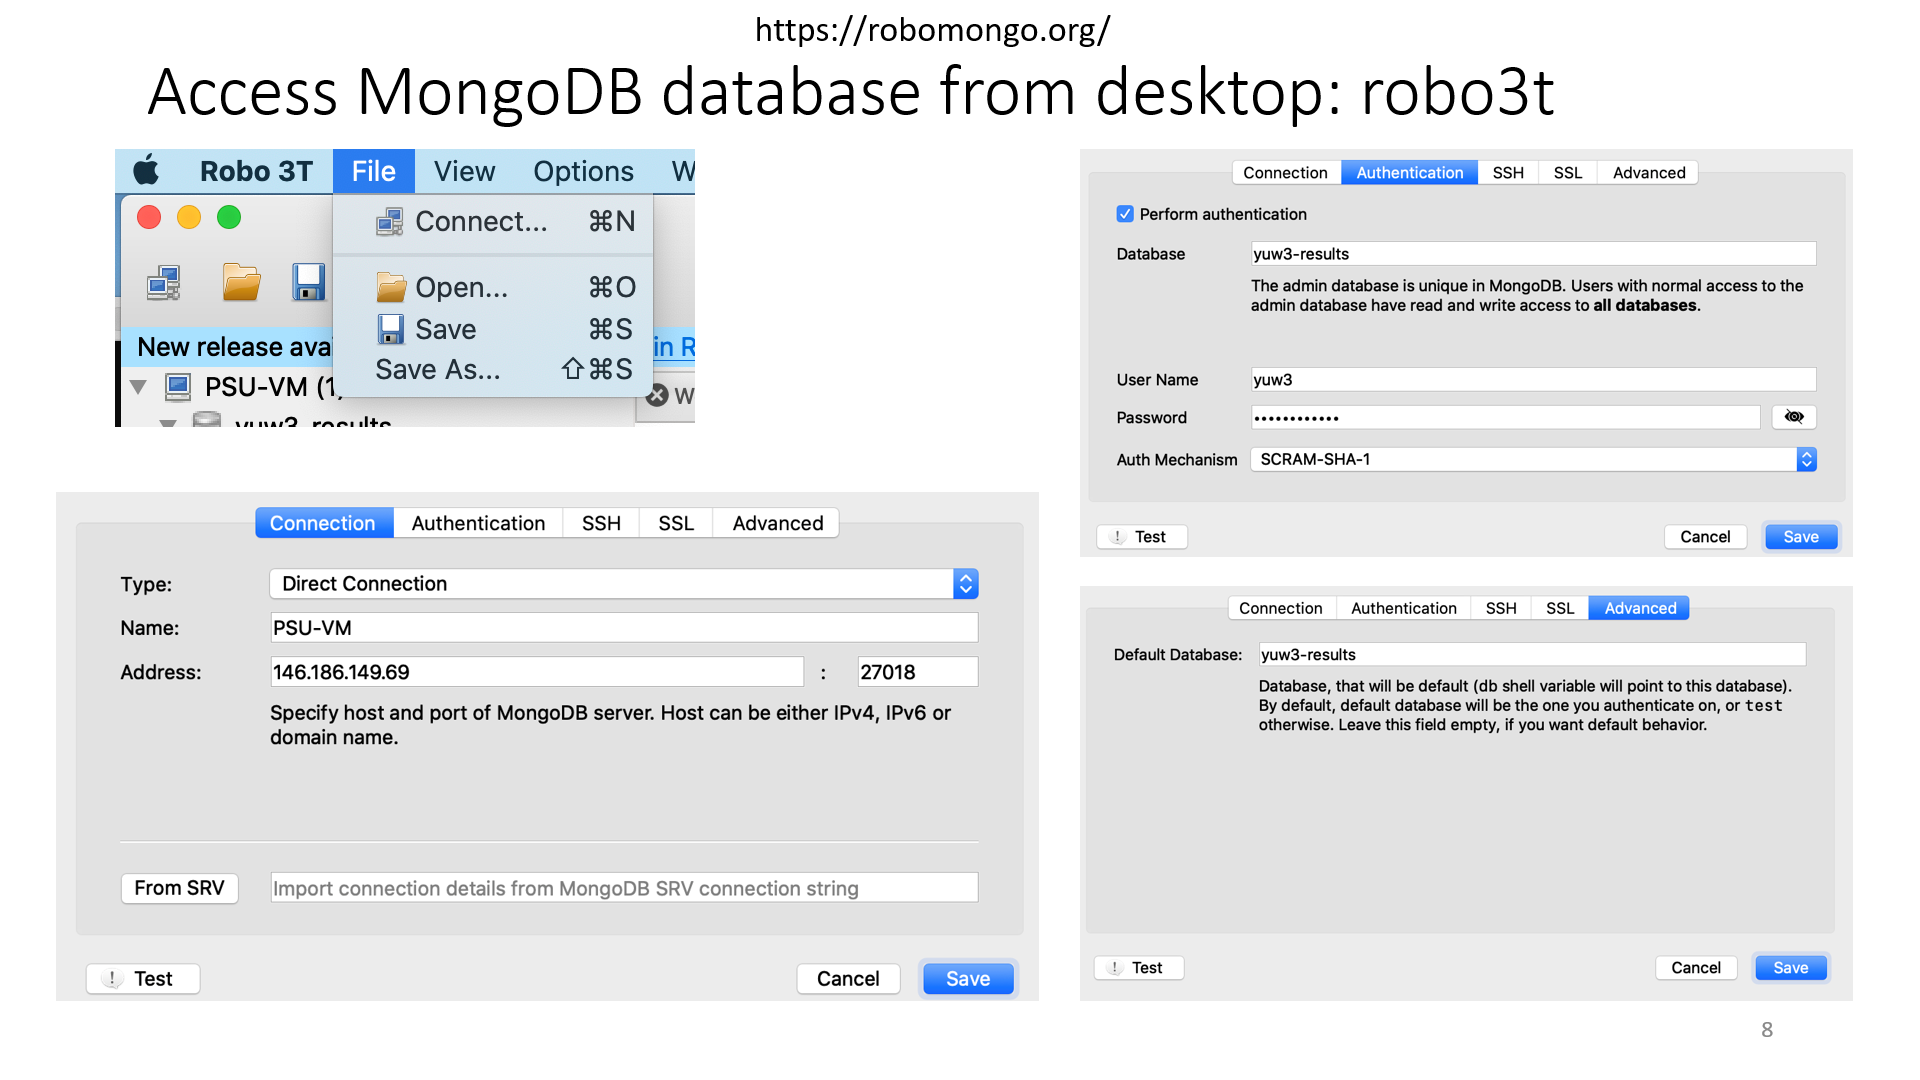
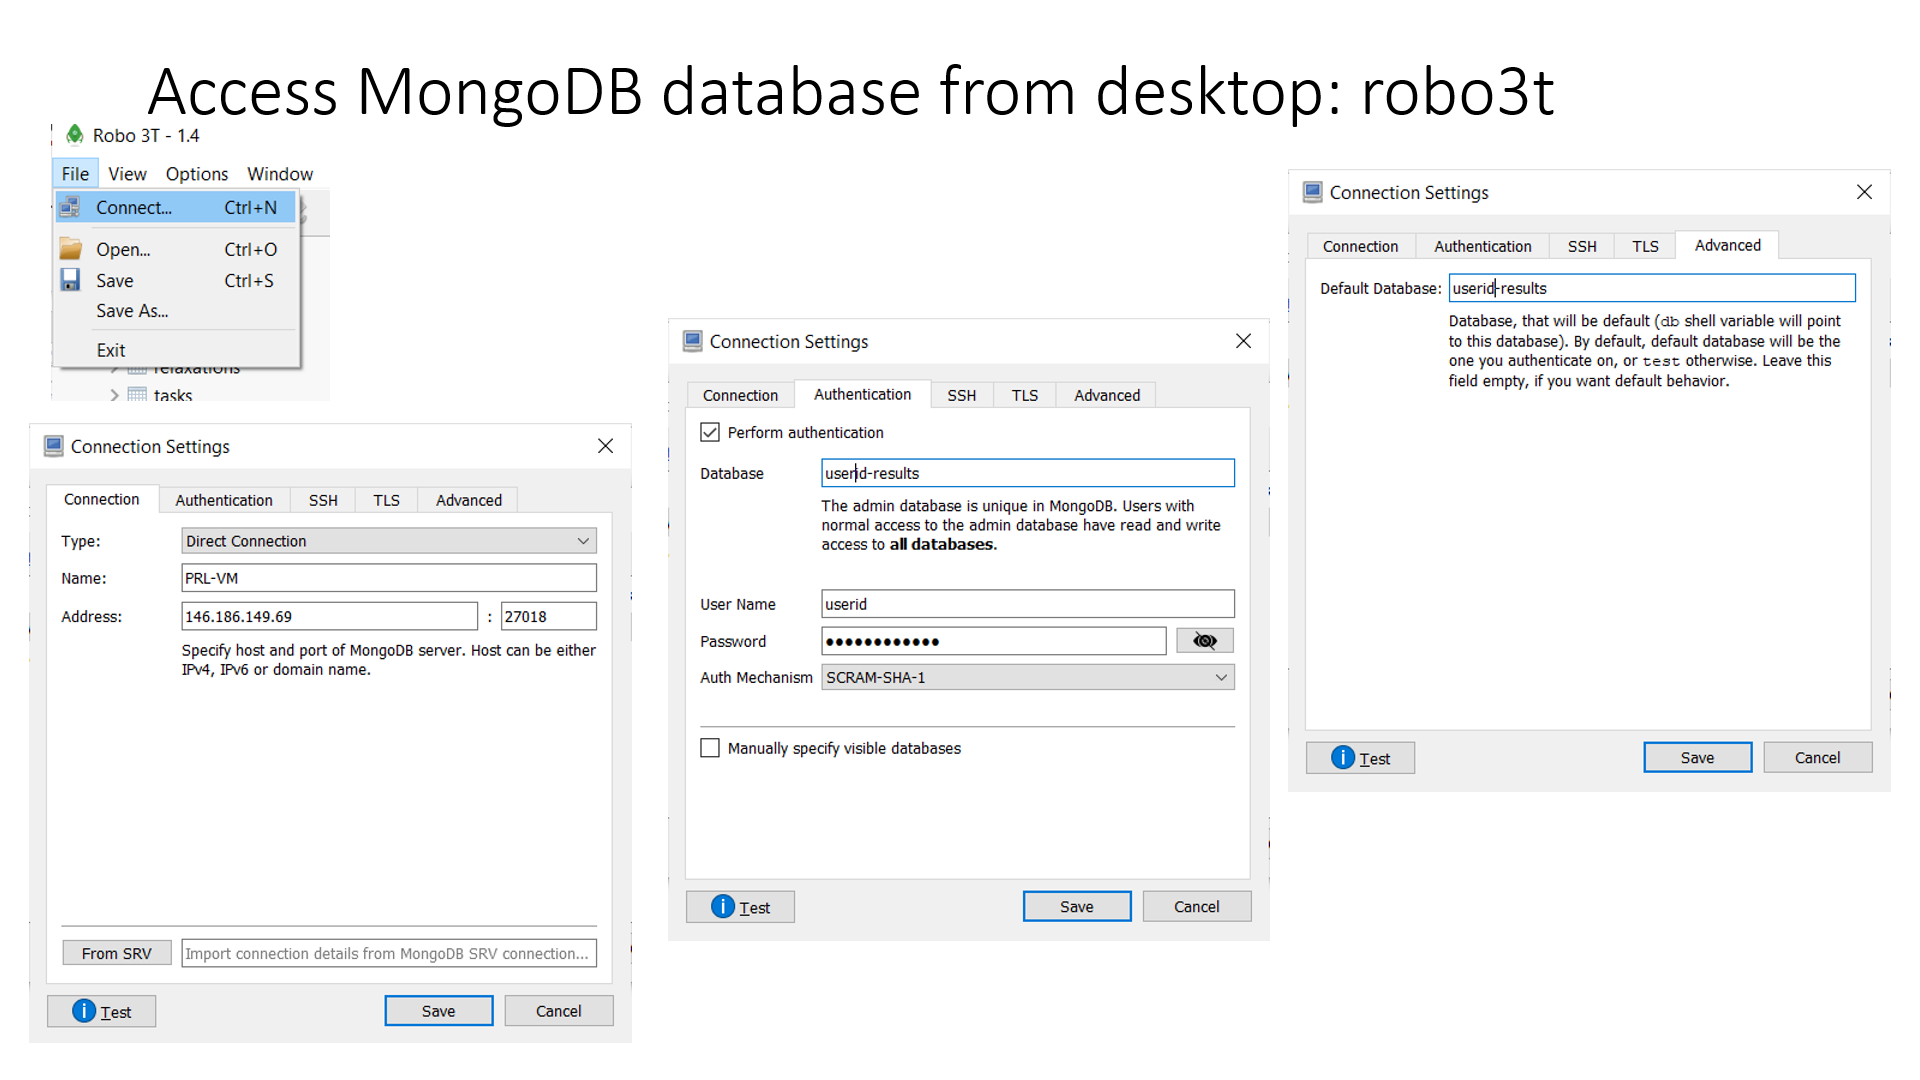
update

diff --git a/docs/source/VM_MongoDB.rst b/docs/source/VM_MongoDB.rst
@@ -10,7 +10,7 @@ In our case, we have changed the default tcp port from 27017 into 27018 due to h
 VM operation
 ------------
 
-  Connect your VM by ssh (ssh yourpsuid@146.186.149.69 in our case). One should use VPN if you have firewall for your system
+  Connect your VM by ssh (ssh youruserid@146.186.149.69 in our case). One should use VPN if you have firewall for your system
 
 - To add user to your VM linux system
 
@@ -91,11 +91,11 @@ For more details on MongodB user management, see https://docs.mongodb.com/manual
 
 .. code-block:: python
 
-    use psuid-fws
-    db.createUser({user: "psuid", pwd: "B5nRcUvoCZ92", roles: [{role: "dbOwner", db: "psuid-fws"}]})
-    use psuid-results
-    db.createUser({user: "psuid", pwd: "BeFihJ2mrKGm", roles: [{role: "dbOwner", db: "psuid-results"}]})
-    db.createUser({user: "psuid-ro", pwd: "QIvaUT9ca6H8", roles: [{role: "read", db: "psuid-results"}]})
+    use userid-fws
+    db.createUser({user: "userid", pwd: "B5nRcUvoCZ92", roles: [{role: "dbOwner", db: "userid-fws"}]})
+    use userid-results
+    db.createUser({user: "userid", pwd: "BeFihJ2mrKGm", roles: [{role: "dbOwner", db: "userid-results"}]})
+    db.createUser({user: "userid-ro", pwd: "QIvaUT9ca6H8", roles: [{role: "read", db: "userid-results"}]})
 
   These lines can be produced by dfttk by run a python code named ``mongodb_user.py`` which 
   can be downlonded from
@@ -117,11 +117,11 @@ For more details on MongodB user management, see https://docs.mongodb.com/manual
 .. code-block:: JSON
 
     {
-        "database": "psuid-results",
+        "database": "userid-results",
         "collection": "tasks",
-        "admin_user": "psuid",
+        "admin_user": "userid",
         "admin_password": "BeFihJ2mrKGm",
-        "readonly_user": "psuid-ro",
+        "readonly_user": "userid-ro",
         "readonly_password": "QIvaUT9ca6H8",
         "host": "146.186.149.69",
         "port": 27018,

diff --git a/docs/source/Installation.rst b/docs/source/Installation.rst
@@ -68,11 +68,11 @@ Connect DFTTK to MongoDB server
 .. code-block:: JSON
 
     {
-        "database": "psuid-results",
+        "database": "userid-results",
         "collection": "tasks",
-        "admin_user": "psuid",
+        "admin_user": "userid",
         "admin_password": "BeFihJ2mrKGm",
-        "readonly_user": "psuid-ro",
+        "readonly_user": "userid-ro",
         "readonly_password": "QIvaUT9ca6H8",
         "host": "146.186.149.69",
         "port": 27018,
@@ -84,7 +84,11 @@ Access MongoDB database from desktop
 
   One can download robo3T from https://robomongo.org/. After install it one use the information
   from the ``db.json`` file to setup robo3T connection as indicated in the following figure
-  #note: One need to replace ``yuw3`` by one's own used id
+
+  #note:: 
+  1. ``PSU-VM`` is an arbitray name for the connection that you want to use;
+  2. ``146.186.149.69`` is the ip address of one's MongoDB server;
+  1. One need to replace ``userid`` by one's own usedid provided by one's MongoDB system manage
 
 .. image:: _static/robo3Tsetup.png
 
